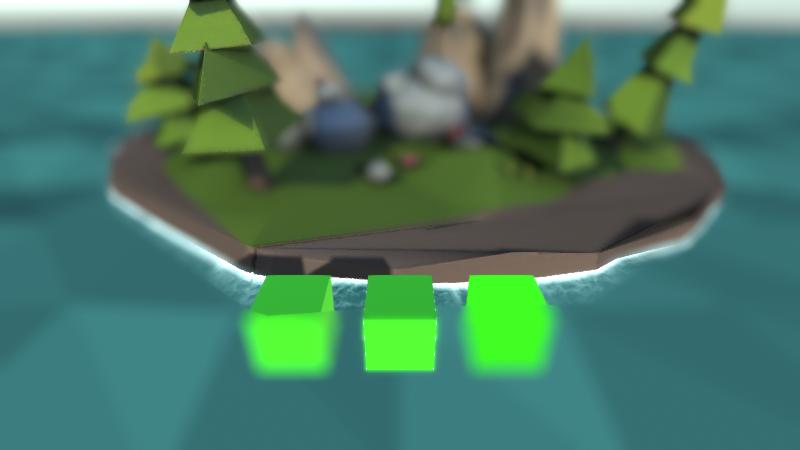
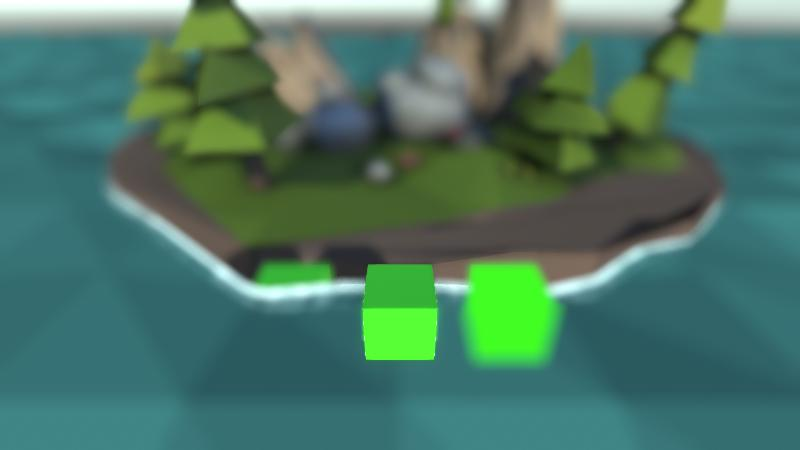
Fadeの位置を調整

diff --git a/README.md b/README.md
@@ -13,7 +13,9 @@
 ## プロジェクトの準備
 1. このプロジェクトを任意の場所にダウンロードして展開したり、クローンしてください
 1. Unityで開きます
-1. Package Managerから [Ebru Dogan. LowPoly Water](https://assetstore.unity.com/packages/tools/particles-effects/lowpoly-water-107563) をインポートします。折角なので好評価もしてあげてください
+1. Package Managerから [Ebru Dogan. LowPoly Water](https://assetstore.unity.com/packages/tools/particles-effects/lowpoly-water-107563) をインポートします。折角なので好評価も是非
+1. ProjectウィンドウからAssets > WaterUnlitDOF > Scenesフォルダーを開きます
+1. DemoSceneExが開始時の不具合があるシーン、DemoSceneExFixが解決させたシーンです
 
 
 # 使用アセット
